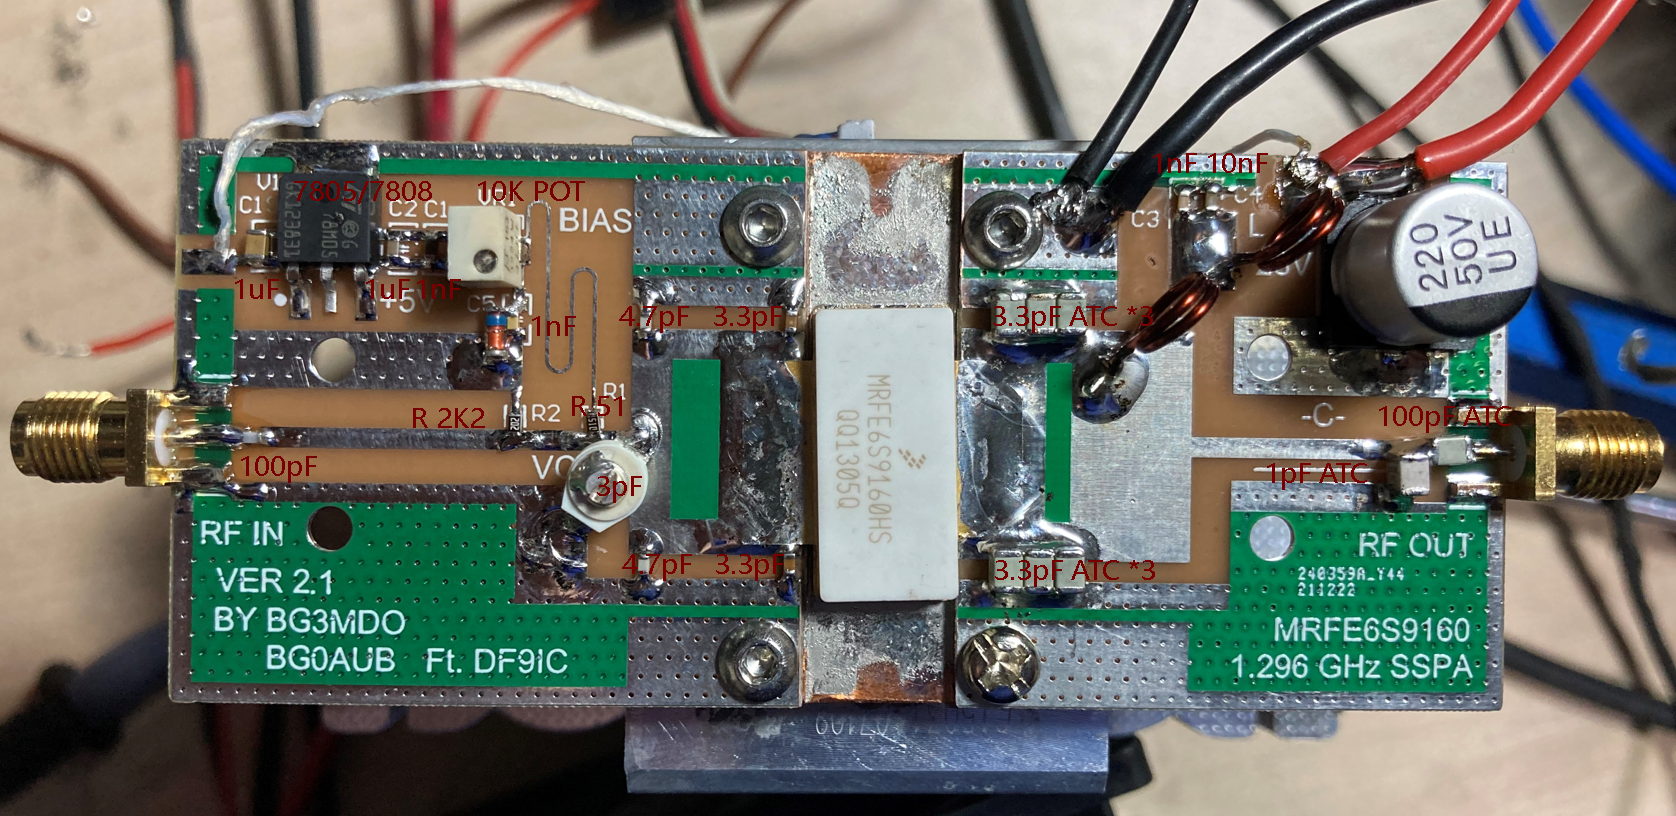
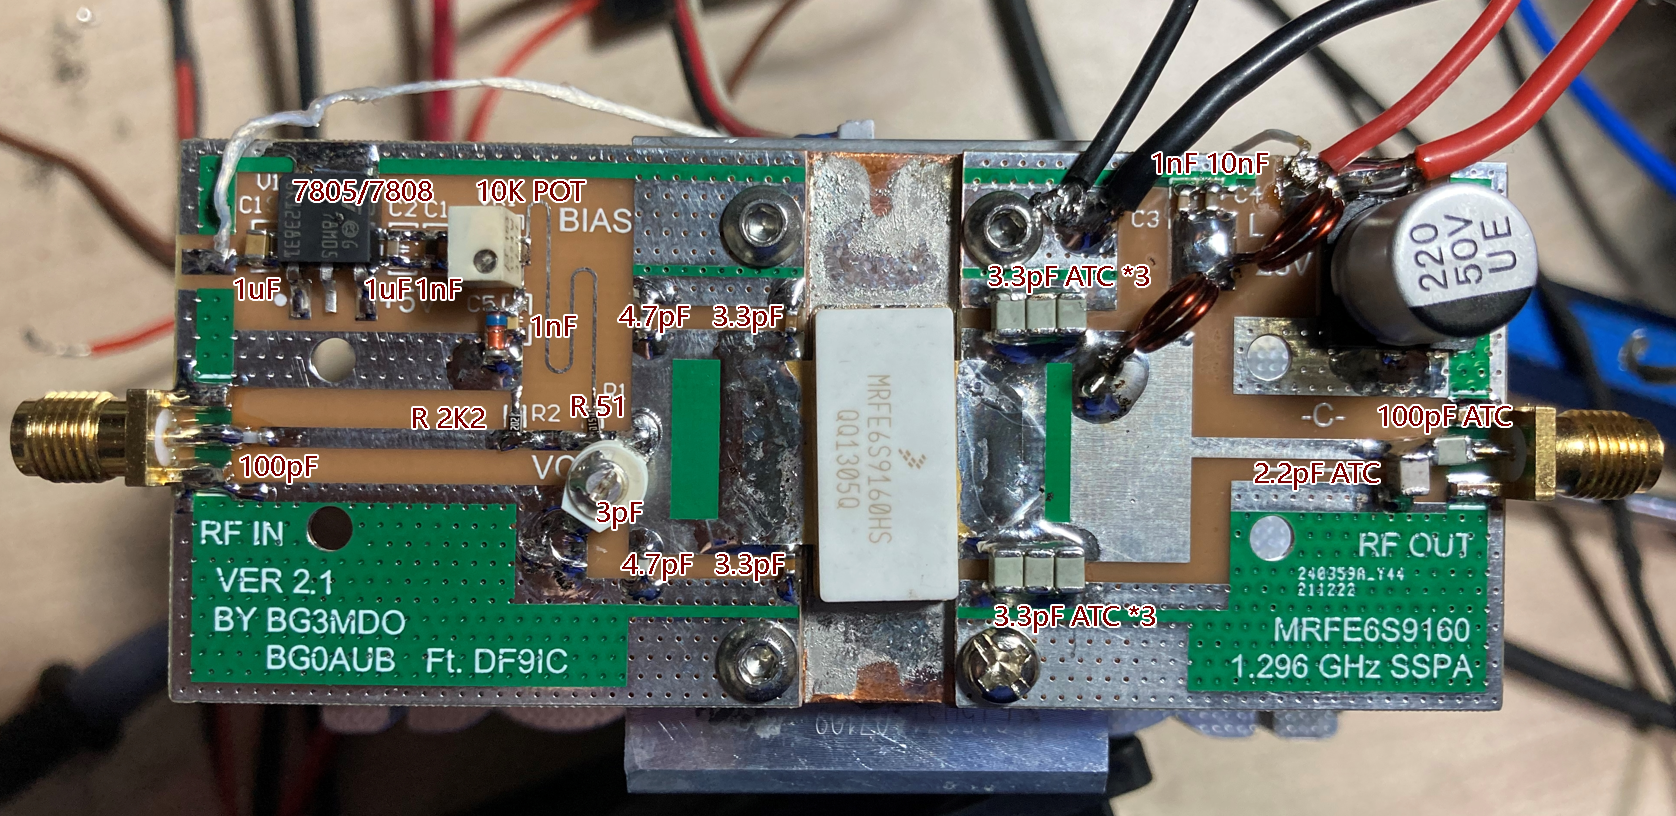
Error correction and update - update BOM and pcb_asm.png with better quality one.

diff --git a/README.md b/README.md
@@ -1,6 +1,6 @@
-# Budget MRFE6S9160 LDMOS Transistor 23cm band 1.3GHz Solid State Power Amplifier (SSPA)
+# Budget MRFE9S9160 LDMOS Transistor 23cm band 1.3GHz 150 Watt Solid State Power Amplifier (SSPA)
 
-MRFE6S9160 (E is an enhanced version of MRF6S9160, but there is no difference for the RF matching and general performance) is commonly found in many old GSM base-station systems and used as a final stage power amplifier (PA) device. We have seen there are already many excellent 23cm band 1.3GHz PAs built with this transistor. The one designed by DF9IC is very popular.  
+MRFE9S9160 (E is an enhanced version of MRF6S9160, but there is no difference for the RF matching and general performance) is commonly found in many old GSM base-station systems and used as a final stage power amplifier (PA) device. We have seen there are already many excellent 23cm band 1.3GHz PAs built with this transistor. The one designed by DF9IC is very popular.  
 
 MRFE9S9160 is easy to get from the Asian market, usually sold as a second-hand component, where they are removed from used base stations. That means this LDMOS transistor is super cheap compared to many other similar devices. However, there are some issues, for example, this device comes without many documents, S-parameter information and simulation models. Therefore, this makes computer-aided design is more difficult on this device.
 
@@ -42,15 +42,15 @@ BOM table as follows:
 
 |Component|Name|Package|Quantity|
 |:----:|:----:|:----:|:----:|
-|1uF 50V|MLCC Capcitor|C 0805|2|
-|1nF 50V|MLCC Capcitor|C 0805|3|
-|10nF 50V|MLCC Capcitor|C 0805|1
-|100pF 100V|C0G Capcitor|C 0603|1
-|3.3pF 100V|C0G Capcitor|C 0603|2
-|4.7pF 100V|C0G Capcitor|C 0603|2
-|100pF 500V|ATC500B Capcitor|C 1210|1
-|3.3pF 100V|ATC500B Capcitor|C 1210|6
-|1pF 500V|ATC500B Capcitor|C 1210|1
+|1uF 50V|MLCC Capacitor|C 0805|2|
+|1nF 50V|MLCC Capacitor|C 0805|3|
+|10nF 50V|MLCC Capacitor|C 0805|1
+|100pF 100V|C0G Capacitor|C 0603|1
+|3.3pF 100V|C0G Capacitor|C 0603|2
+|4.7pF 100V|C0G Capacitor|C 0603|2
+|100pF 500V|ATC500B Capacitor|C 1210|1
+|3.3pF 100V|ATC500B Capacitor|C 1210|6
+|2.2pF 500V|ATC500B Capacitor|C 1210|1
 |100uF/50V|Aluminum Electrolytic Capacitor|CT 10*8-C|1
 |SMA|SMA Female Connector|SMA-KE|2
 |MRFE6S9160|N-CHANNEL RF LDMOS|MRFE6S9160HR3/HSR3|1|
@@ -58,6 +58,8 @@ BOM table as follows:
 |2K2|Chip Resistor|R 0603|1|
 |LM7808/05|Regulator|TO252|1|
 |3224W-1-103E|10K Variable Resistor|3224W1205E|1|
+|3pF Variable Cap|High Q Cap Trimmer|3P-6mm|1|
+
 
 Schematic of the PA:
 
@@ -101,6 +103,6 @@ A plot of the output power and current:
 
 VY 73!
 
-BG3MDO and BG0AUB
+BG3MDO (Yuan) and BG0AUB (Feng)
 
 CC BY-SA 4.0
